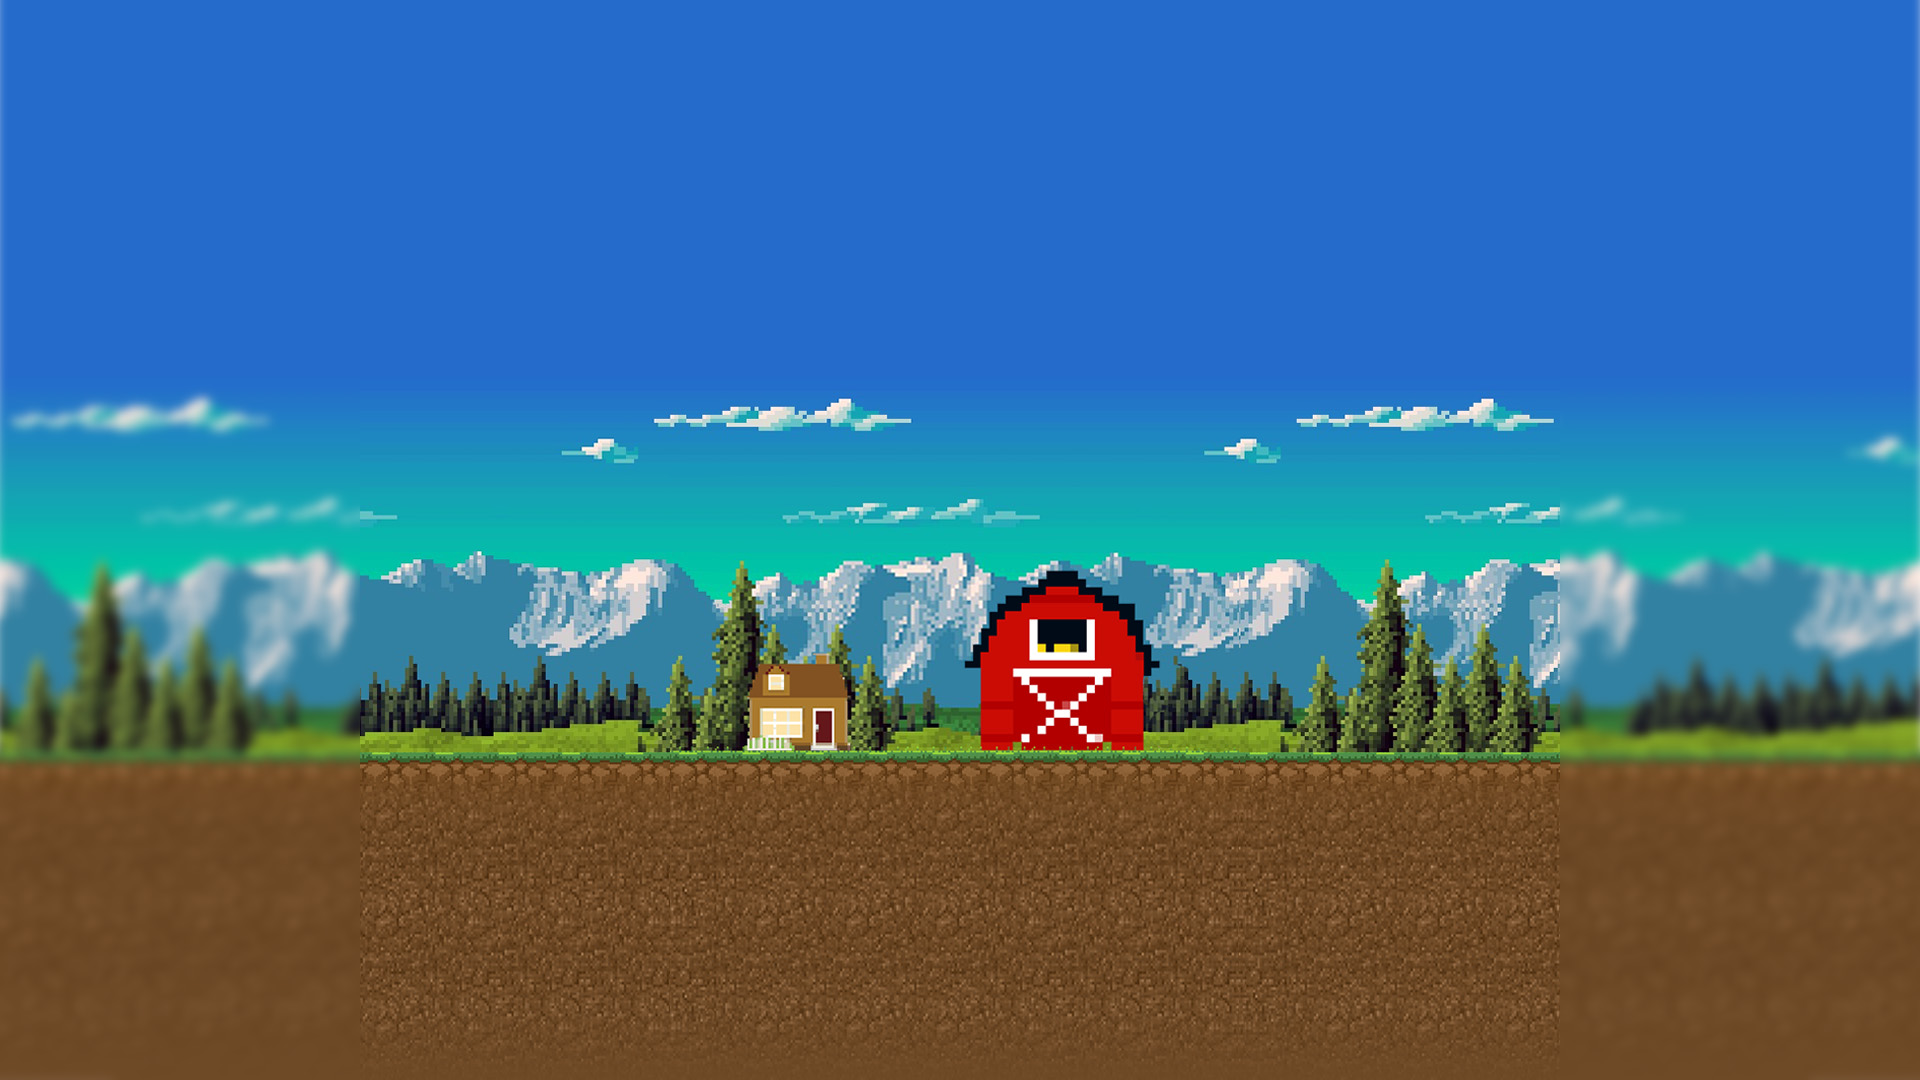
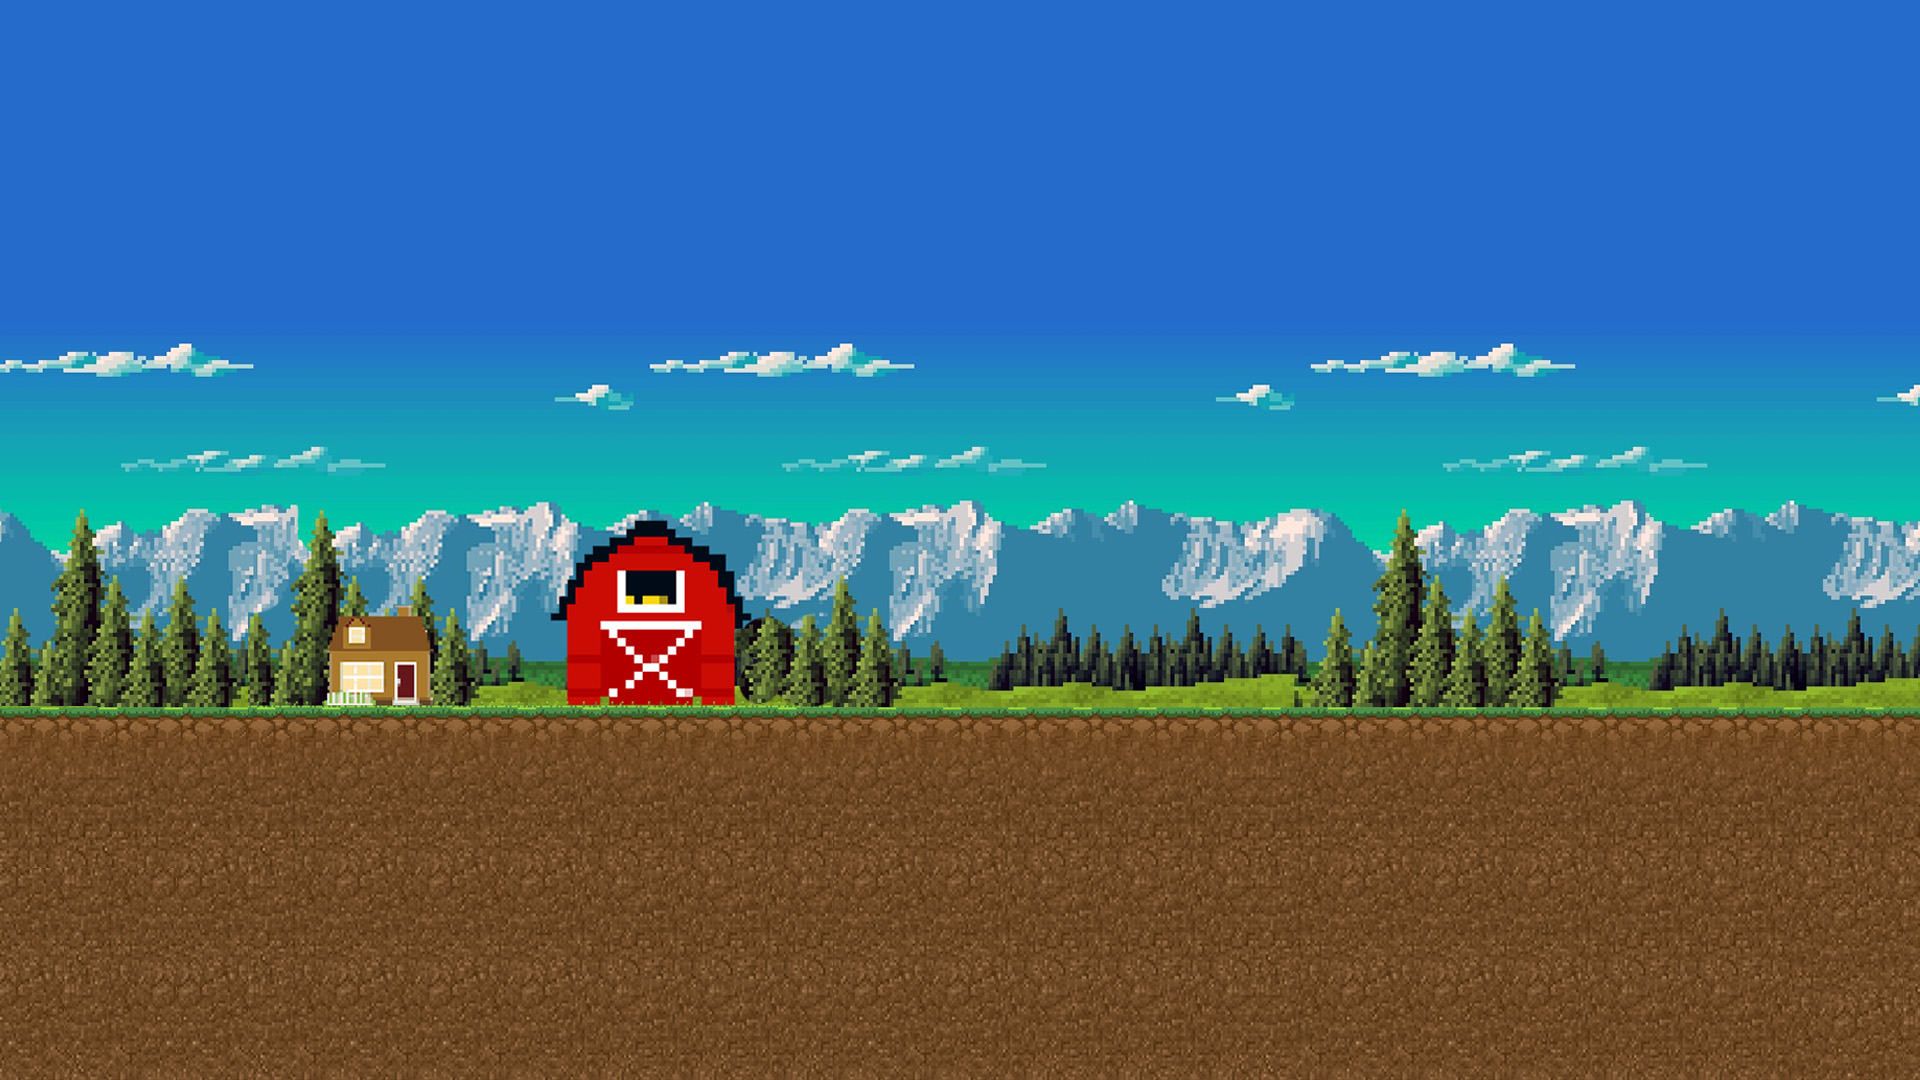
completed base math-op page, all present buttons working, added imagemapresizer

diff --git a/HTML/Menu.html b/HTML/Menu.html
@@ -11,7 +11,7 @@
 </head>
 
 <body>
-
+<!-- LOGO -->
     <div class="main-menu-screen">
         <div class="main-logo">
             <div class="row">
@@ -23,41 +23,63 @@
             </div>
         </div>
 
+<!-- BUTTONS -->
+
         <div class="main-buttons">
             <div class="row">
                 <div class="col-sm showcol"></div>
+
                 <div class="col-sm showcol text-center">
-                    <button id="mBTN">Play</button>
+                    <button type="image" class="mBTN" id="playBTN">
+                        <img src="../Images/main-PlayButton.png" alt="" >
+                    </button>
                 </div>
+                
                 <div class="col-sm showcol"></div>
                 <div class="w-100"></div>
                 <div class="col-sm showcol"></div>
+
                 <div class="col-sm showcol text-center">
-                    <button id="mBTN">Highscore</button>
+                    <button type="image" class="mBTN" id="highscoreBTN">
+                        <img src="../Images/main-LeaderboardButton.png" alt="" >
+                    </button>
                 </div>
+
                 <div class="col-sm showcol"></div>
             </div>
         </div>
+<!-- BUTTONS END -->
     </div>
 
 
 
 
-    <div class="math-op-screen">
-        
+    <div class="math-op-screen ">
+
         <map name="mathOperator">
-            <area shape="rect" coords="130,147,200,107,254,219,130,228" href="" target="_blank" alt="HTML" />
-            <area shape="poly" coords="130,147,130,228,6,219,59,107" href="" target="_blank" alt="CSS" />
-            <area shape="poly" coords="130,147,200,107,130,4,59,107" href="" target="_blank" alt="JavaScript" />
-        </map>
+            <area shape="rect" coords="90,401,218,525" href="#" target="_blank"/>
+
+            <area shape="poly" coords="277,577,365,666,274,755,188,663" href="#" target="_blank"/>
+
+           <area shape="rect" coords="329,249,454,376" href="#" target="_blank"/>
+
+           <area shape="rect" coords="436,467,558,588" href="#" target="_blank"/>
+        
 
 
-        <img usemap="#mathOperator" class="math-op" src="../Images/math-op-FP.jpg" alt="math-op-fp" />
+        <img usemap="#mathOperator" class="math-op" src="../Images/clouds-only.png" alt="math-op-fp" />
 
+    
     </div>
+
+
+
+<!-- SCRIPTS UNDER HERE -->
     <script src="https://cdn.jsdelivr.net/npm/bootstrap@5.0.0-beta1/dist/js/bootstrap.bundle.min.js"
         integrity="sha384-ygbV9kiqUc6oa4msXn9868pTtWMgiQaeYH7/t7LECLbyPA2x65Kgf80OJFdroafW"
         crossorigin="anonymous"></script>
+        <script src="../Scripts/imageMapResizer.min.js"></script>
+        <script src="../Scripts/index.js"></script>
 </body>
 
 </html>

diff --git a/Scripts/imageMapResizer.min.js b/Scripts/imageMapResizer.min.js
@@ -1,0 +1,8 @@
+/*! Image Map Resizer (imageMapResizer.min.js ) - v1.0.10 - 2019-04-10
+ *  Desc: Resize HTML imageMap to scaled image.
+ *  Copyright: (c) 2019 David J. Bradshaw - dave@bradshaw.net
+ *  License: MIT
+ */
+
+!function(){"use strict";function r(){function e(){var r={width:u.width/u.naturalWidth,height:u.height/u.naturalHeight},a={width:parseInt(window.getComputedStyle(u,null).getPropertyValue("padding-left"),10),height:parseInt(window.getComputedStyle(u,null).getPropertyValue("padding-top"),10)};i.forEach(function(e,t){var n=0;o[t].coords=e.split(",").map(function(e){var t=1==(n=1-n)?"width":"height";return a[t]+Math.floor(Number(e)*r[t])}).join(",")})}function t(e){return e.coords.replace(/ *, */g,",").replace(/ +/g,",")}function n(){clearTimeout(d),d=setTimeout(e,250)}function r(e){return document.querySelector('img[usemap="'+e+'"]')}var a=this,o=null,i=null,u=null,d=null;"function"!=typeof a._resize?(o=a.getElementsByTagName("area"),i=Array.prototype.map.call(o,t),u=r("#"+a.name)||r(a.name),a._resize=e,u.addEventListener("load",e,!1),window.addEventListener("focus",e,!1),window.addEventListener("resize",n,!1),window.addEventListener("readystatechange",e,!1),document.addEventListener("fullscreenchange",e,!1),u.width===u.naturalWidth&&u.height===u.naturalHeight||e()):a._resize()}function e(){function t(e){e&&(!function(e){if(!e.tagName)throw new TypeError("Object is not a valid DOM element");if("MAP"!==e.tagName.toUpperCase())throw new TypeError("Expected <MAP> tag, found <"+e.tagName+">.")}(e),r.call(e),n.push(e))}var n;return function(e){switch(n=[],typeof e){case"undefined":case"string":Array.prototype.forEach.call(document.querySelectorAll(e||"map"),t);break;case"object":t(e);break;default:throw new TypeError("Unexpected data type ("+typeof e+").")}return n}}"function"==typeof define&&define.amd?define([],e):"object"==typeof module&&"object"==typeof module.exports?module.exports=e():window.imageMapResize=e(),"jQuery"in window&&(window.jQuery.fn.imageMapResize=function(){return this.filter("map").each(r).end()})}();
+//# sourceMappingURL=imageMapResizer.map

diff --git a/CSS/Menu-css/Mobile-resp.css b/CSS/Menu-css/Mobile-resp.css
@@ -6,47 +6,53 @@ body{
     background-size: cover;
     background-attachment: fixed;
     background-position: center bottom;
+
 }
 .main-menu-screen{
-    display: none;
-}
-.showcol{
-    border: 2px solid black;
-}
+    display: block;
 
+}
+/* .showcol{
+    border: 2px solid black;
+}  */
 
 
 /* to change in other screens */
+
+.main-logo{
+   margin-top: 10vh;
+}   
+
 .main-logo img{
    width: 40vh;
 }
 
-.main-logo{
-   margin-top: 15vh;
-}
 
 .main-buttons{ 
-    margin-top: 40vh;
+    margin-top: 42vh;
+ 
 }
 
-#mBTN{
-    margin: 10px;
+.mBTN{
+    margin-top: 15px;
+    padding:0;
+    
    
 }
 /* MAIN MENU PAGE END*/ 
 
+
 /* MATH OPERATORS */
-
-.math-op-screen{
-    width:100%;
-    height:100%;
-    text-align:center;
-    overflow:hidden;
+.math-op-screen{ 
+    display: none;
+    margin: auto;
+    text-align: center;
+     margin-top: 10vh;
+}
+.math-op-screen img{ 
+    height: 80vh;
+   
 }
 
-.math-op-screen img{
-    min-width:100vh;
-    max-width:none;
-    height:100vh;
-    margin: 0 -100px;
-}
+/* MATH OPERATORS END */
+

diff --git a/Scripts/index.js b/Scripts/index.js
@@ -1,0 +1,13 @@
+//call button
+document.querySelector('#playBTN').addEventListener('click', function(){
+
+    document.querySelector('.main-menu-screen').style.display = "none"
+    document.querySelector('.math-op-screen').style.display = "block"
+})
+
+
+
+
+//map resizer
+imageMapResize();
+
